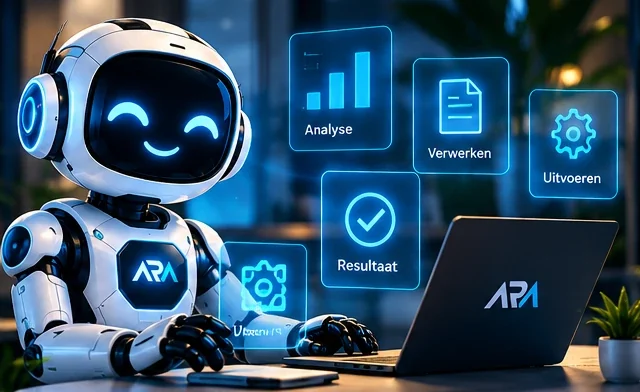
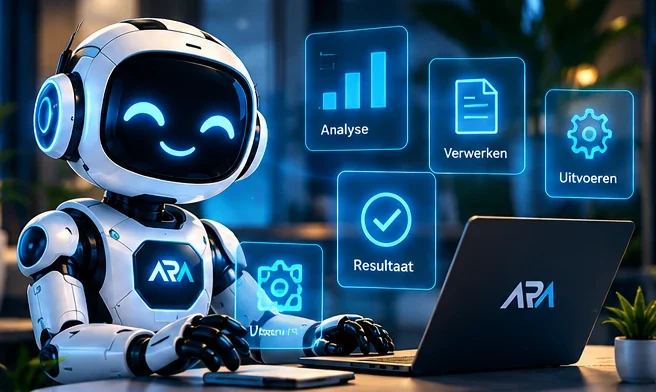
Show the ARA robot uncropped
- Homepage about card and About page use the full robot artwork at its
  natural ratio instead of a crop from the promo (whose headline overlaps
  the robot).
- AI-medewerkers hero crop widened so the robot's headphones are complete.

Claude-Session: https://claude.ai/code/session_01St6zktJPKhLoR5qca8XKz8

diff --git a/src/i18n/dictionaries.ts b/src/i18n/dictionaries.ts
@@ -108,7 +108,7 @@ const nl = {
     aboutText:
       "ARA Intelligent Solutions is ontstaan uit de overtuiging dat technologie mensen en bedrijven vooruit moet helpen. Met AI, automatisering, software en digitale oplossingen bouwen wij aan een slimmere en sterkere toekomst — vanuit Suriname, met een blik op de wereld.",
     aboutCta: "Meer over ons",
-    aboutImageAlt: "ARA-robot met een duim omhoog naast tegels voor websites, AI-medewerkers, automatisering, software en IT-support",
+    aboutImageAlt: "ARA-robot achter een laptop met iconen voor websites, AI, automatisering, software en IT-support",
     whyEyebrow: "Waarom ARA?",
     whyTitle: "Een technologiepartner die meedenkt.",
     why: [
@@ -269,7 +269,7 @@ const nl = {
     responsibleTitle: "Verantwoorde technologie",
     responsibleText:
       "We gaan zorgvuldig om met gegevens, kiezen voor transparante oplossingen en zijn eerlijk over beperkingen. Zo bouwen we aan vertrouwen — bij u en bij uw klanten.",
-    logoAlt: "De ARA-robot steekt een duim omhoog, naast tegels voor websites, AI-medewerkers, automatisering, software en IT-support",
+    logoAlt: "De vriendelijke ARA-robot aan het werk achter een laptop in een modern kantoor",
     bannerAlt: "ARA-robot aan het werk achter een laptop, met iconen voor websites, AI, automatisering, software en IT-support",
   },
   pricing: {
@@ -544,7 +544,7 @@ const en: Dictionary = {
     aboutText:
       "ARA Intelligent Solutions is built on the belief that technology should help people and businesses move forward. With AI, automation, software and digital solutions we build a smarter and stronger future — from Suriname, with a global outlook.",
     aboutCta: "More about us",
-    aboutImageAlt: "ARA robot giving a thumbs up next to tiles for websites, AI assistants, automation, software and IT support",
+    aboutImageAlt: "ARA robot at a laptop with icons for websites, AI, automation, software and IT support",
     whyEyebrow: "Why ARA?",
     whyTitle: "A technology partner that thinks along.",
     why: [
@@ -704,7 +704,7 @@ const en: Dictionary = {
     responsibleTitle: "Responsible technology",
     responsibleText:
       "We handle data carefully, choose transparent solutions and are honest about limitations. That is how we build trust — with you and with your customers.",
-    logoAlt: "The ARA robot giving a thumbs up, next to tiles for websites, AI assistants, automation, software and IT support",
+    logoAlt: "The friendly ARA robot at work at a laptop in a modern office",
     bannerAlt: "ARA robot at work at a laptop, with icons for websites, AI, automation, software and IT support",
   },
   pricing: {

diff --git a/src/views/home-page.tsx b/src/views/home-page.tsx
@@ -1,7 +1,7 @@
 import Image from "next/image";
 import { Gem, Lightbulb, Layers, Users, Target, Workflow, Sparkles, TrendingUp } from "lucide-react";
 import robotHero from "@/assets/images/robot-hero.webp";
-import robotServices from "@/assets/images/robot-services.webp";
+import robotOffice from "@/assets/images/robot-office.webp";
 import { absoluteUrl, siteConfig } from "@/config/site";
 import { getLatestArticles } from "@/content/news";
 import { getFeaturedProducts, hasSampleProducts, hasUnreleasedProducts } from "@/content/products";
@@ -184,11 +184,11 @@ export function HomePage({ locale }: { locale: Locale }) {
         <div className="container-site grid gap-10 lg:grid-cols-12">
           <div className="on-dark relative isolate overflow-hidden rounded-[2rem] bg-midnight text-white shadow-xl lg:col-span-7">
             <Image
-              src={robotServices}
+              src={robotOffice}
               alt={t.home.aboutImageAlt}
               placeholder="blur"
               sizes="(min-width: 1024px) 55vw, 100vw"
-              className="aspect-[16/9] h-auto w-full object-cover object-[center_30%]"
+              className="h-auto w-full"
             />
             <div className="p-8 sm:p-10">
               <p className="eyebrow text-cyan">{t.home.aboutEyebrow}</p>

diff --git a/src/views/about-page.tsx b/src/views/about-page.tsx
@@ -1,6 +1,6 @@
 import Image from "next/image";
 import { Compass, Eye, Globe2, HeartHandshake, MapPin, Scale, ShieldCheck, Target, Crosshair, Rocket } from "lucide-react";
-import robotServices from "@/assets/images/robot-services.webp";
+import robotOffice from "@/assets/images/robot-office.webp";
 import robotHero from "@/assets/images/robot-hero.webp";
 import type { Locale } from "@/i18n/config";
 import { getDictionary } from "@/i18n/dictionaries";
@@ -45,7 +45,7 @@ export function AboutPage({ locale }: { locale: Locale }) {
       <section className="py-16 sm:py-20" aria-labelledby="brand-title">
         <div className="container-site grid items-center gap-10 lg:grid-cols-2">
           <div className="overflow-hidden rounded-[2rem] shadow-xl">
-            <Image src={robotServices} alt={a.logoAlt} placeholder="blur" sizes="(min-width: 1024px) 45vw, 100vw" className="h-auto w-full" />
+            <Image src={robotOffice} alt={a.logoAlt} placeholder="blur" sizes="(min-width: 1024px) 45vw, 100vw" className="h-auto w-full" />
           </div>
           <div>
             <SectionHeading id="brand-title" eyebrow="ARA" title={a.brandTitle} />

diff --git a/scripts/brand-assets/make_robot_assets.py b/scripts/brand-assets/make_robot_assets.py
@@ -4,7 +4,8 @@ The ARA logo (with the macaw) and the favicons are NOT generated here; they
 stay unchanged (see make_logo_dark.py).
 
 Inputs (the three supplied 1536x1024 artworks):
-  9.webp   promo with the "ARA | INTELLIGENT SOLUTIONS" wordmark and robot
+  9.webp   promo (used for the social preview image only; its headline overlaps
+           the robot, so it is not used for robot crops)
   10.webp  AI-medewerkers infographic (robot per specialisation)
   11.webp  robot at a laptop with service icons (no text)
 
@@ -44,11 +45,11 @@ def feathered(img, edge_frac=0.06):
 # 2. Homepage hero: the full robot artwork with its own background, soft edges.
 feathered(im11).save(assets / "robot-hero.webp", "WEBP", quality=88, alpha_quality=90, method=6)
 
-# 3. Robot with service tiles (from the promo, without its headline text).
-im9.crop((768, 70, 1536, 636)).save(assets / "robot-services.webp", "WEBP", quality=86, method=6)
+# 3. The same artwork without edge fades, for cards (robot fully visible).
+im11.save(assets / "robot-office.webp", "WEBP", quality=86, method=6)
 
 # 4. AI-medewerkers: process robot (top of the infographic) and one robot per specialisation.
-im10.crop((600, 0, 1240, 392)).save(assets / "robot-ai-process.webp", "WEBP", quality=86, method=6)
+im10.crop((584, 0, 1240, 392)).save(assets / "robot-ai-process.webp", "WEBP", quality=86, method=6)
 for name, (x0, x1) in {
     "administrative": (4, 304),
     "customer-service": (314, 609),

diff --git a/README.md b/README.md
@@ -74,7 +74,7 @@ The route files under `src/app` are thin wrappers: each calls a view from `src/v
 | `src/assets/images/ara-logo-dark.webp` | Header and footer logo, 404 page | The official ARA logo with the macaw (unchanged), on a transparent background for dark surfaces (`scripts/brand-assets/make_logo_dark.py`). |
 | `src/app/icon.png`, `src/app/apple-icon.png`, `public/images/ara-emblem-192.png` | Favicons and structured-data logo | Original circular ARA emblem (unchanged) |
 | `src/assets/images/robot-hero.webp` | Homepage hero, About page | ARA robot artwork (robot at a laptop) with its own background; the outer edges fade into the hero |
-| `src/assets/images/robot-services.webp` | Homepage about card, About page | ARA robot with service tiles (from the promo artwork, without its headline) |
+| `src/assets/images/robot-office.webp` | Homepage about card, About page | The same robot artwork without edge fades (robot fully visible) |
 | `src/assets/images/robot-ai-process.webp`, `robot-<specialisation>.webp` | AI-medewerkers hero and specialisation cards | AI-medewerkers infographic |
 | `public/og/ara-og.jpg` | Social preview image | ARA promo artwork |
 | `src/assets/images/suriname-river.webp` | Call-to-action band | Original brand artwork |
